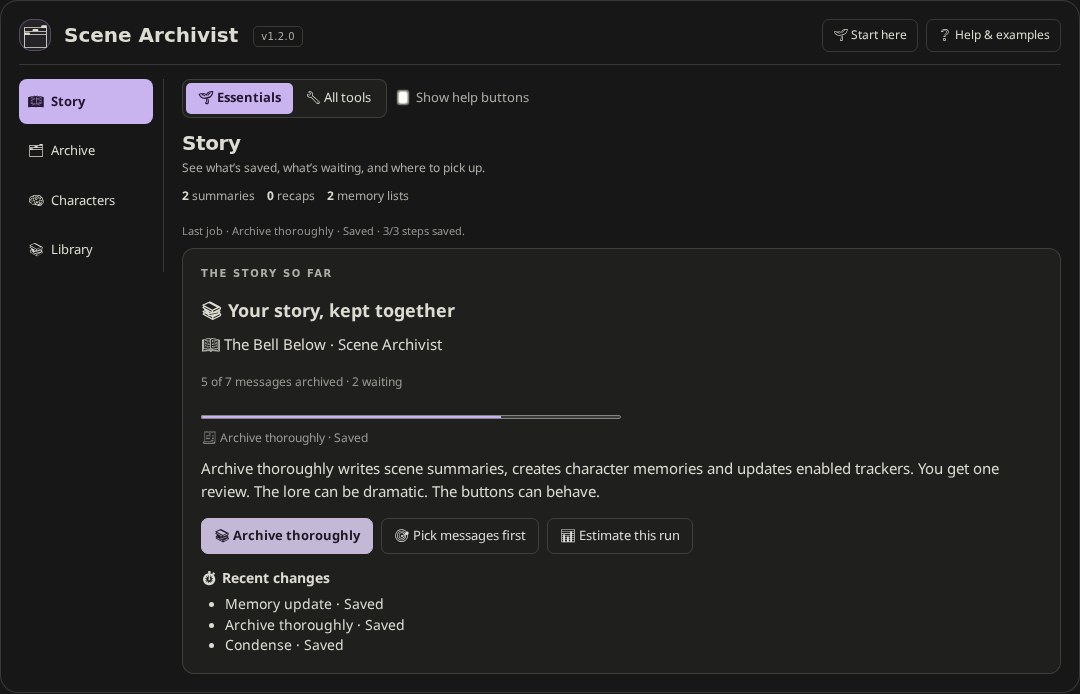
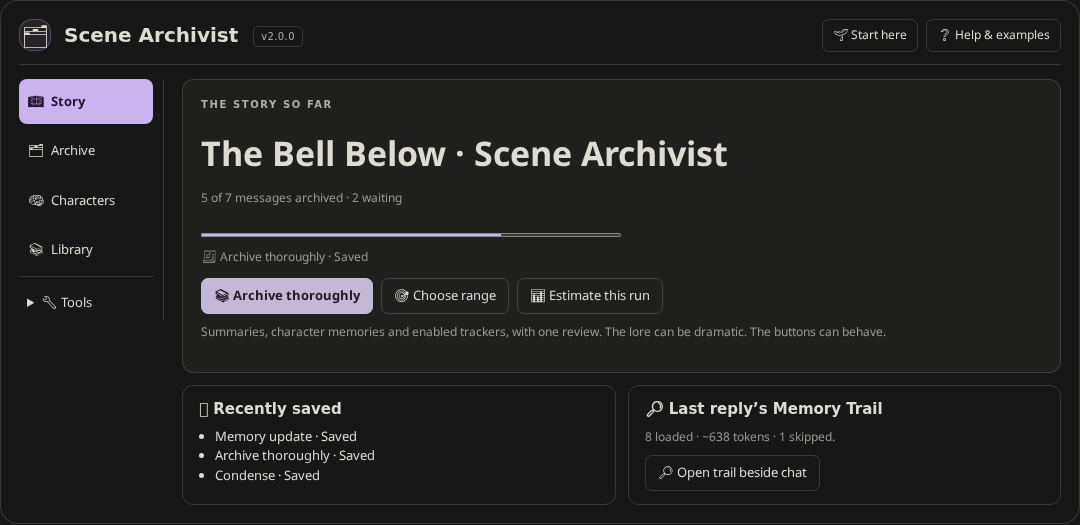
Prepare Scene Archivist 2.0.0 release materials

diff --git a/version.js b/version.js
@@ -1,1 +1,1 @@
-export const VERSION = '1.2.0';
+export const VERSION = '2.0.0';

diff --git a/README.md b/README.md
@@ -1,4 +1,4 @@
-# Scene Archivist 1.2.0
+# Scene Archivist 2.0.0
 
 **Your story has consequences. Your characters should remember them.**
 
@@ -12,6 +12,13 @@ If your characters can hide a body but cannot remember where they had dinner, we
 
 The examples use an invented story about a flooded railway station. Screenshots and walkthroughs were captured in **SillyTavern 1.19.0** with scripted model replies and sample lorebooks. Your theme and model output will look different. See the [changelog](CHANGELOG.md) for version history.
 
+<details>
+<summary>Workspace walkthrough</summary>
+
+![Story, the Library timeline, Little Things, and the reply-side Memory Trail](docs/media/workspace-walkthrough.gif)
+
+</details>
+
 ## Install and make your first archive
 
 1. In SillyTavern, open **Extensions → Install extension**.
@@ -20,9 +27,9 @@ The examples use an invented story about a flooded railway station. Screenshots 
 4. Select a lorebook in **Archive → Your archive**, or use **Start here** to create one and preview a short message range.
 5. Pick **Summarize this range** for a summary, or **Archive this range thoroughly** to also create memories and update enabled trackers. Read the review, then save the entries you approve.
 
-For an existing installation, use SillyTavern’s extension update control. Before updating an active story, **All tools → Maintain → Backups and restore → Back up this story** saves its books, coverage, revisions, and unfinished job.
+For an existing installation, use SillyTavern’s extension update control. Before updating an active story, **Tools → Maintain → Backups and restore → Back up this story** saves its books, coverage, revisions, and unfinished job.
 
-**Essentials** shows Story, Archive, Characters and Library. **All tools** reveals Maintain, Prompt, Settings and the advanced sections. Your picks and unfinished job stay available. **Help & examples** has a quick start, a worked example, and a searchable button guide. Hover or focus an action for its explanation, or turn on **Show help buttons** to open it separately.
+**Story**, **Archive**, **Characters**, and **Library** are the everyday workspace. Open **Tools** for Maintain, Prompt and Settings. **Advanced controls** reveals additional sections in place. Your range picks and unfinished jobs stay available. **Help & examples** has a quick start, a worked example, and a searchable button guide. Hover or focus an action for its explanation, or turn on **Show help buttons** to open it separately.
 
 <details>
 <summary>Help and mobile view</summary>
@@ -105,7 +112,7 @@ Use **Facts, knowledge and unfinished business** to write or extract who knows, 
 
 ## Character diaries
 
-1. In **Characters → All tools**, open **Character diaries** and select a character. Optionally enter a story date, an inclusive message range, or a style note.
+1. In **Characters** with **Tools → Advanced controls** enabled, open **Character diaries** and select a character. Optionally enter a story date, an inclusive message range, or a style note.
 2. Choose **Write a diary**. The model reads original chat messages, the character card, and attached background lore. Review the first-person text before saving.
 3. After the story continues, choose **Update diary from new chat**. The previous diary provides voice and continuity, and later messages supply the new events. An exact range lets you revisit an earlier scene.
 4. Use **Condense diary** when the saved text grows too large. The previous version remains in Library history.
@@ -131,14 +138,16 @@ Diaries are saved to the archive separately from active character memories. You 
 
 ## Library and history
 
-Use **Library** to search saved entries by text, date, character, location, or record type. **Inspect** shows the text, original message ranges, linked sources, earlier revisions, and protection controls. Turn on **History** to include retired records. Use **Save a note** to keep an author note without making a model request.
+Open **Library → Timeline** to read a saved scene alongside its linked character memories and Little Things. **Jump to** opens the original message when it is available in the current chat. Use **All records** to search by text, date, character, location, or type. **Inspect** shows the text, original message ranges, linked sources, earlier revisions, and protection controls. Turn on **History** to include retired records. Use **Save a note** to keep an author note without making a model request.
 
 - **Author locked**, **Preserve exact wording**, and **Keep detailed** protect deliberate wording from automated rewrites.
 - **Prioritize in memory budget** gives an eligible record preference when Scene Archivist trims loaded entries.
 - **Exclude this record from injection** keeps it in the book for reference without including it in prompts.
 - A source edit is shown beside a proposal when relevant. Existing saved memories remain available after ordinary chat edits, and you can approve prepared work without rebuilding an existing list first.
 
-![Library with saved story records](docs/media/12-library.png)
+![Library timeline with a selected scene and links to its evidence](docs/media/37-timeline.png)
+
+![All records search and inspection](docs/media/12-library.png)
 
 <details>
 <summary>Trace a record to its original messages</summary>
@@ -148,6 +157,16 @@ Use **Sources** on a Library result. Each source range lists the chat it came fr
 ![Original messages linked to the selected archive entry](docs/media/27-original-sources.png)
 
 </details>
+
+### Little Things
+
+Keep the borrowed coat, the way someone takes their coffee, or the promise that never made it into the main plot. Use **Library → Little Things → Add a detail**, or choose **Little Thing** in **Remember this** on a chat message. Give it a cue someone might actually say. Fill in **Who knows** for private details.
+
+Reviewed archive and condense runs can suggest details in the same model response. Read the source and check the ones you want in the combined review. Little Things live in the selected archive’s story metadata and travel with full story backups. Each detail adds zero lorebook entries. A branch with verified history keeps only Little Things with matching source messages.
+
+A normal reply can load up to four matching details inside the existing memory budget on SillyTavern versions with the World Info scan hook. Relevant cues and open promises can carry over for a few replies within a scene. **Load next reply** queues a detail for the next eligible speaker. To turn off automatic selection, open **Tools → Prompt** and switch off scene recall.
+
+![Little Things with cues, a source link, and the option to queue a detail](docs/media/38-little-things.png)
 
 ## Condense by tokens
 
@@ -168,9 +187,11 @@ Optional recap automation can suggest or create a recap after newer units, ficti
 
 ## Prompt and recall
 
-- Under **Library → Search, evidence and continuity**, **Ask the archive** answers a question with source links. **Check this claim** checks one statement, and the recent or whole-archive checks look for conflicts across records.
+- Under **Library → All records → Search, evidence and continuity**, **Ask the archive** answers a question with source links. **Check this claim** checks one statement, and the recent or whole-archive checks look for conflicts across records.
 - **Previously on…** creates a short return recap for the reader. **Recall** can ask a helper model to pick relevant details before a normal reply.
-- In **Prompt**, **View last reply’s memory trail** and **Memory budget and loading reasons** show which Scene Archivist entries loaded at SillyTavern’s World Info stage, which were skipped, and why. The message menu opens the trail for that reply or swipe. The trace keeps counts, titles and source links for recent replies.
+- In **Story**, open the last reply’s **Memory Trail** beside the chat. On a small screen it opens as a bottom sheet. The chat message menu opens the trail for that reply or swipe. **Tools → Prompt** has the memory budget and more loading details. The trail reports both the native World Info matches and the Little Things Scene Archivist prepared for the reply.
+
+For a past scene, put an explicit marker such as `Flashback: February 14, 2027` on its own line in the chat. Scene recall uses the date to leave out managed memories that contain later or undated evidence. A new scene marker or a changed place ends recent cue carryover.
 
 In groups, Scene Archivist loads only the speaking card’s memories by default. Use **Remember this** to choose the exact card when two cards share a name. You can change group memory scope in Prompt. Saving a group memory for a uniquely identified card also gives its lorebook entry a SillyTavern character filter. Existing entries get that filter when edited or regenerated in the group. Filters set by hand in World Info are preserved.
 
@@ -180,7 +201,9 @@ In groups, Scene Archivist loads only the speaking card’s memories by default.
 
 ![Memory budget and activation source filters](docs/media/16-loading-budget.png)
 
-![Scene Archivist entries and loading reasons for a single reply](docs/media/35-reply-trace.png)
+![Memory Trail with cues and evidence alongside SillyTavern chat](docs/media/35-reply-trace.png)
+
+![Memory Trail as a bottom sheet on a phone-sized screen](docs/media/39-mobile-trail.png)
 
 ![Walkthrough of finding a record and its evidence](docs/media/evidence-walkthrough.gif)
 
@@ -226,7 +249,7 @@ Helper tools such as memory organization and archive search use the helper model
 
 Open **Maintain → Archive sharing** and enable **Share this archive across chats** in the original chat, then select that book in the other chat. This is for chats that intentionally share one timeline. **Where to file new summaries** can start a new unit, continue an existing unit, or file an earlier event. Each contribution keeps its own source range. Use one writer at a time when updating a shared archive.
 
-Open **All tools → Maintain → Branches** to choose verified earlier history or empty private books. To create the branch, open the original message’s three-dot menu in SillyTavern and choose **Create Branch**. The branch view shows the parent and fork point when available. Later records stay in the parent when the extension cannot verify them as part of the branch.
+Open **Tools → Maintain → Branches** to choose verified earlier history or empty private books. To create the branch, open the original message’s three-dot menu in SillyTavern and choose **Create Branch**. The branch view shows the parent and fork point when available. Later records stay in the parent when the extension cannot verify them as part of the branch.
 
 Renaming a chat in SillyTavern keeps its archive and progress. A native branch or a separate copy of the original chat file gets private books, even when the copied file has the same internal identifier. Use SillyTavern’s **Branch** action to keep lineage easy to follow.
 

diff --git a/CHANGELOG.md b/CHANGELOG.md
@@ -1,5 +1,15 @@
 # Changelog
 
+## 2.0.0
+
+- Put Story, Archive, Characters and Library in one compact workspace. Find Maintain, Prompt and Settings under Tools, with Branches in Maintain.
+- Added a Library timeline with scene summaries, linked character memories, Little Things and original message jumps.
+- Added Little Things for small callbacks and open threads. Keep them in the archive’s story metadata, save one from a chat message, or review suggestions during archive and condense runs.
+- Added local scene recall for cues, promises and short carryover. Little Things share the prompt token budget, respect who knows them, and can include a verified short quote when requested.
+- Added a reply-side Memory Trail on desktop and a bottom sheet on smaller screens. See what loaded, why it loaded, and where it came from.
+- Grouped proposed summaries, memories, trackers and Little Things in one review with editable text, source labels, and before and after text.
+- Kept saved stories, source links, Undo and unfinished drafts compatible with 1.2.0.
+
 ## 1.2.0 · November 6, 2026
 
 - Added a Story overview with coverage, recent saves and a job status chip. **Archive thoroughly** prepares summaries, character memories and enabled trackers for one review.
